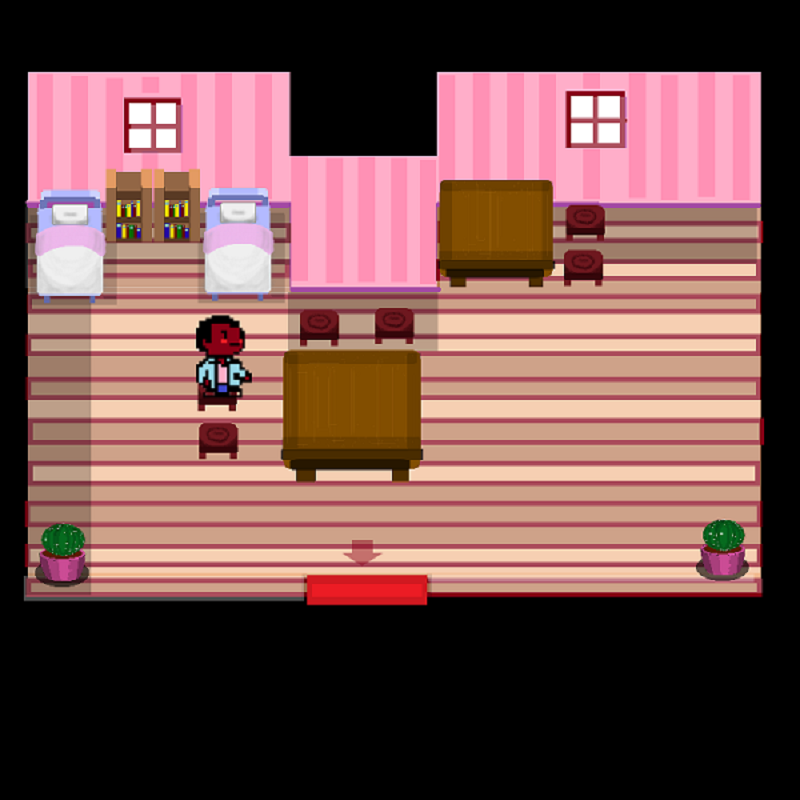
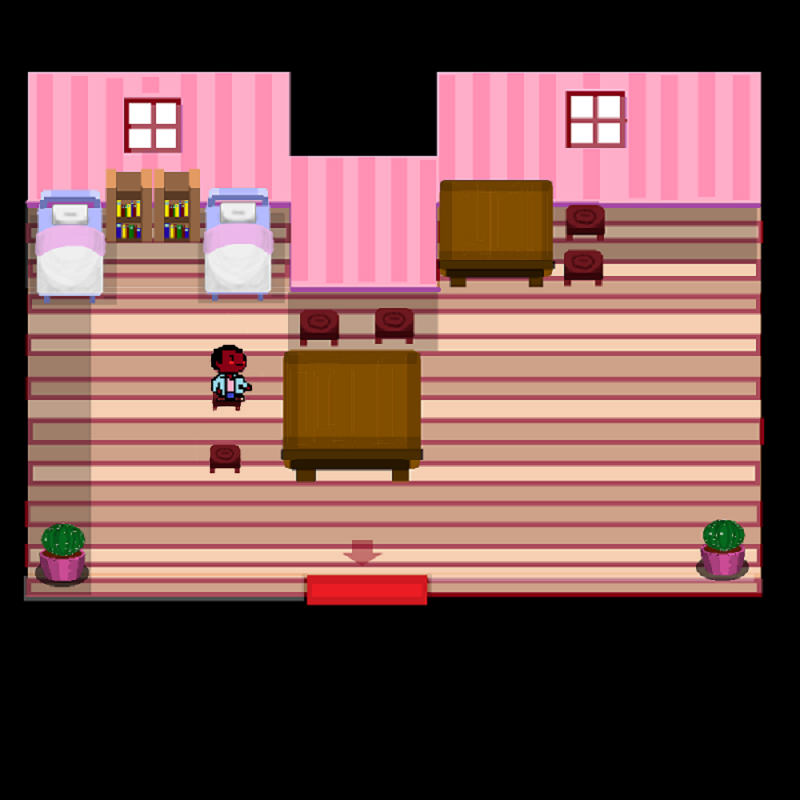
chgmt maison pc 2 & 3

Changed region(s): [[0.2188, 0.375, 0.3125, 0.5938]]

diff --git a/VariablesDeJeu.java b/VariablesDeJeu.java
@@ -18,7 +18,7 @@ public class VariablesDeJeu {//création de l'unique Jframe
 		private int taTurne [][] = { {0,0,0,0,0,0,0,0,0,0,0,0,0,0,0,0,0,0,0,0,0,0,0,0,0},{0,0,0,0,0,0,0,0,0,0,0,0,0,0,0,0,0,0,0,0,0,0,0,0,0},{0,0,0,0,0,0,0,0,0,0,0,0,0,0,0,0,0,0,0,0,0,0,0,0,0},{0,0,0,0,0,0,0,0,0,0,0,0,0,0,0,0,0,0,0,0,0,0,0,0,0},{0,0,0,0,0,0,0,0,0,0,0,0,0,0,0,0,0,0,0,0,0,0,0,0,0},{0,0,0,0,0,0,0,0,0,0,0,0,0,0,0,0,0,0,0,0,0,0,0,0,0},{0,0,0,0,0,0,0,0,0,0,0,0,0,0,0,0,0,0,0,0,0,0,0,0,0},{0,0,0,0,1,1,1,1,1,0,0,0,0,0,0,0,0,0,1,1,1,1,1,1,0},{0,1,1,1,1,1,1,1,1,0,0,0,0,0,1,1,1,1,1,1,1,1,1,1,0},{0,1,1,1,1,1,1,1,1,0,0,0,1,1,1,1,1,1,1,1,1,1,1,1,0},{0,1,1,1,1,1,1,1,1,1,1,1,1,1,1,1,1,1,1,1,1,1,1,1,0},{0,1,1,1,201,201,201,0,0,0,0,0,0,0,0,1,1,1,1,1,1,1,1,1,0},{0,0,0,0,201,2,201,1,1,0,0,0,0,1,1,1,1,1,1,1,1,1,1,1,0},{0,0,0,0,201,2,201,0,0,0,0,0,0,0,0,1,1,1,1,1,1,1,1,1,0},{0,0,0,0,201,201,201,1,0,0,0,0,0,1,1,1,1,1,1,1,1,1,1,1,0},{0,1,1,1,1,1,1,1,1,1,1,1,1,1,1,1,1,1,1,1,1,1,1,1,0},{0,1,1,1,1,1,1,1,1,1,1,1,1,1,1,1,1,1,1,1,1,1,1,1,0},{0,1,1,1,1,1,1,1,1,1,1,1,1,1,1,1,1,1,1,1,1,1,1,1,0},{0,0,0,0,0,0,0,0,0,0,4102,4102,4102,4102,0,0,0,0,0,0,0,0,0,0,0},{0,0,0,0,0,0,0,0,0,0,4102,4102,4102,4102,0,0,0,0,0,0,0,0,0,0,0},{0,0,0,0,0,0,0,0,0,0,0,0,0,0,0,0,0,0,0,0,0,0,0,0,0},{0,0,0,0,0,0,0,0,0,0,0,0,0,0,0,0,0,0,0,0,0,0,0,0,0},{0,0,0,0,0,0,0,0,0,0,0,0,0,0,0,0,0,0,0,0,0,0,0,0,0},{0,0,0,0,0,0,0,0,0,0,0,0,0,0,0,0,0,0,0,0,0,0,0,0,0},{0,0,0,0,0,0,0,0,0,0,0,0,0,0,0,0,0,0,0,0,0,0,0,0,0} };
 		private	int laFeyssine [][] = { {0,0,4105,4105,4105,0,0,0,0,0,0,0,0,0,0,0,0,0,0,0,0,0,0,0,0},{0,0,4105,4105,4105,0,0,0,0,0,0,0,0,0,0,0,0,0,0,0,0,0,0,0,0},{0,0,202,202,202,0,0,0,0,0,0,0,1,1,1,1,0,0,0,0,0,0,0,0,0},{0,0,2,202,202,0,0,0,0,0,0,2,203,1,1,1,0,0,0,0,0,0,0,0,0},{0,0,2,202,202,202,0,0,0,0,0,2,203,1,1,1,0,0,0,0,0,0,0,0,0},{0,0,202,202,202,1,0,0,0,0,0,203,203,1,1,1,0,0,0,0,0,0,0,0,0},{0,0,1,1,1,0,0,0,0,0,0,1,1,0,0,0,0,0,0,0,0,0,0,0,0},{0,0,1,1,1,0,0,0,0,0,0,1,1,0,0,0,0,0,0,0,0,0,0,0,0},{0,0,1,1,1,0,0,0,0,0,0,1,1,0,0,0,0,0,4101,0,0,0,0,0,0},{0,0,1,1,1,1,0,1,1,1,0,1,1,0,0,0,0,0,4101,0,0,0,0,0,0},{0,0,1,1,1,1,1,0,0,0,1,1,1,0,0,0,1,1,1,1,1,1,1,0,0},{0,0,1,1,1,1,0,0,0,0,0,1,1,0,0,0,1,1,1,1,1,1,1,0,0},{0,0,1,1,1,1,0,0,0,0,0,1,1,1,1,1,1,1,1,1,1,1,1,0,0},{0,0,1,1,1,1,0,0,0,0,0,1,1,1,1,1,0,0,0,0,0,0,0,0,0},{0,0,1,1,1,1,0,0,0,0,0,1,1,1,1,1,0,0,0,0,0,0,0,0,0},{0,0,1,1,1,1,0,0,0,0,0,1,1,1,1,1,0,0,0,0,0,0,0,0,0},{0,0,1,1,1,1,0,0,0,0,0,1,1,1,1,1,0,0,0,0,0,0,0,0,0},{0,0,1,1,1,1,0,0,0,0,0,1,1,204,204,0,0,0,0,0,0,0,0,0,0},{0,0,1,1,1,1,0,0,0,0,0,1,1,204,2,0,0,0,4103,0,0,0,0,0,0},{0,0,1,1,1,1,0,0,0,0,0,1,1,204,2,0,0,0,4103,0,0,0,0,0,0},{0,0,1,1,1,1,0,0,0,0,0,1,1,204,204,204,1,1,1,1,1,1,1,0,0},{0,0,1,1,1,1,0,0,0,0,0,1,1,1,1,1,1,1,1,1,1,1,1,0,0},{0,0,1,1,1,1,0,0,0,0,0,0,0,0,0,0,0,0,0,0,0,0,0,0,0},{0,0,0,0,0,0,0,0,0,0,0,0,0,0,0,0,0,0,0,0,0,0,0,0,0},{0,0,0,0,0,0,0,0,0,0,0,0,0,0,0,0,0,0,0,0,0,0,0,0,0}};
 		private int turneVoisin [][] = { {0,0,0,0,0,0,0,0,0,0,0,0,0,0,0,0,0,0,0,0,0,0,0,0,0},{0,0,0,0,0,0,0,0,0,0,0,0,0,0,0,0,0,0,0,0,0,0,0,0,0},{0,0,0,0,0,0,0,0,0,0,0,0,0,0,0,0,0,0,0,0,0,0,0,0,0},{0,0,0,0,0,0,0,0,0,0,0,0,0,0,0,0,0,0,0,0,0,0,0,0,0},{0,0,0,0,0,0,0,0,0,0,0,0,0,0,0,0,0,0,0,0,0,0,0,0,0},{0,0,0,0,0,0,0,0,0,0,0,0,0,0,0,0,0,0,0,0,0,0,0,0,0},{0,0,0,0,0,0,0,0,0,0,0,0,0,0,0,0,0,0,0,0,0,0,0,0,0},{0,0,0,0,0,0,0,0,0,0,0,0,0,0,0,0,0,1,0,0,0,0,0,0,0},{0,1,1,0,0,0,0,0,0,0,0,0,0,0,1,1,1,1,1,1,1,0,0,0,0},{0,1,1,0,0,0,0,1,1,1,1,1,0,0,1,1,1,1,1,1,1,0,0,0,0},{0,1,1,0,0,0,0,1,1,1,1,1,1,1,1,1,1,1,1,1,1,0,0,0,0},{0,1,1,0,0,0,0,1,1,1,1,1,1,1,1,205,205,205,1,1,1,0,0,0,0},{0,1,1,0,0,0,0,1,1,1,1,1,0,0,205,2,205,1,1,1,1,0,0,0,0},{0,1,1,206,206,206,1,1,1,1,1,1,1,1,205,2,205,1,1,1,1,0,0,0,0},{0,1,206,2,2,206,1,1,1,1,1,1,1,1,205,205,205,1,1,1,1,1,1,0,0},{0,1,206,2,2,206,1,1,1,1,1,1,1,1,1,1,1,1,1,1,1,1,1,0,0},{0,1,1,206,206,206,1,1,1,1,1,1,1,1,1,1,1,1,1,1,1,1,1,0,0},{0,1,1,1,1,1,1,1,1,1,1,4104,1,1,1,1,1,1,1,1,1,1,1,0,0},{0,1,1,1,1,1,1,1,1,1,4104,4104,4104,4104,1,1,1,1,1,1,1,1,1,0,0},{0,0,0,0,0,0,0,0,0,4104,4104,4104,4104,4104,0,0,0,0,0,0,0,0,0,0,0},{0,0,0,0,0,0,0,0,0,0,0,0,0,0,0,0,0,0,0,0,0,0,0,0,0},{0,0,0,0,0,0,0,0,0,0,0,0,0,0,0,0,0,0,0,0,0,0,0,0,0},{0,0,0,0,0,0,0,0,0,0,0,0,0,0,0,0,0,0,0,0,0,0,0,0,0},{0,0,0,0,0,0,0,0,0,0,0,0,0,0,0,0,0,0,0,0,0,0,0,0,0},{0,0,0,0,0,0,0,0,0,0,0,0,0,0,0,0,0,0,0,0,0,0,0,0,0}};	
-		private	int travee1 [][] = {{0,0,0,0,0,0,0,0,0,0,0,0,0,0,0,0,0,0,0,0,0,4202,4202,4202,0},{0,0,3,3,307,5,5,5,5,5,5,5,1,1,1,1,1,1,0,0,0,4202,4202,4202,0},{0,0,307,307,307,5,5,5,1,1,5,1,1,1,1,1,1,1,0,0,0,0,1,0,0},{0,0,0,0,0,0,0,0,0,0,1,0,0,0,0,0,0,0,0,0,0,0,1,0,0},{0,0,0,0,0,0,0,0,0,0,1,0,0,0,0,0,0,0,0,0,0,0,1,0,0},{0,0,0,0,0,0,0,0,0,0,1,0,0,0,0,0,0,0,0,0,0,0,5,0,0},{0,0,0,0,0,0,0,0,0,0,1,0,0,0,0,0,0,0,0,0,0,0,5,0,0},{0,0,0,1,1,1,1,1,1,1,5,5,5,5,5,5,5,1,1,5,5,5,5,0,0},{0,0,0,1,1,1,1,1,1,1,5,5,5,5,5,5,5,5,5,5,5,5,5,0,0},{0,0,0,0,0,0,0,0,0,0,0,5,1,1,5,5,5,5,1,0,0,0,1,0,0},{0,0,0,0,0,0,0,0,0,0,0,1,1,1,5,5,5,5,0,0,0,0,1,0,0},{0,0,0,0,0,0,0,0,0,0,0,1,1,1,1,5,0,0,0,0,0,0,0,0,0},{0,0,0,0,0,0,0,0,0,0,0,1,1,1,1,5,0,0,0,0,0,0,0,0,0},{0,0,0,3,308,5,5,5,5,5,1,1,1,1,5,5,0,0,0,0,0,0,0,0,0},{0,0,0,3,308,5,5,5,5,5,1,1,1,1,5,5,0,0,0,0,0,0,0,0,0},{0,0,0,308,308,5,5,5,5,1,0,0,0,1,1,5,5,5,5,1,1,309,3,0,0},{0,0,0,1,1,5,5,5,5,0,0,0,0,1,1,1,1,1,1,1,1,309,309,0,0},{0,0,0,0,0,0,0,0,0,0,0,0,0,0,0,1,1,0,0,0,0,0,0,0,0},{0,0,0,0,0,0,0,0,0,0,0,0,0,0,0,1,1,0,0,0,0,0,0,0,0},{0,0,3,3,310,5,5,5,5,1,1,1,1,1,1,1,1,5,5,5,5,5,5,0,0},{0,0,3,3,310,5,5,5,5,1,1,1,1,1,1,1,1,5,5,5,5,5,5,0,0},{0,0,0,0,0,0,0,0,0,0,0,0,0,0,0,0,0,0,5,5,5,5,5,0,0},{0,0,0,1,1,1,1,1,5,5,5,1,1,1,1,1,5,5,5,5,5,5,5,0,0},{0,0,4201,4201,4201,1,1,1,1,5,1,1,1,1,1,5,5,5,5,5,5,5,5,0,0},{0,0,4201,4201,4201,0,0,0,0,0,0,0,0,0,0,0,0,0,0,0,0,0,0,0,0}};
+		private	int travee1 [][] = {{0,0,0,0,0,0,0,0,0,0,0,0,0,0,0,0,0,0,0,0,0,4202,4202,4202,0},{0,0,3,3,307,5,5,5,5,5,5,5,1,1,1,1,1,1,0,0,0,4202,4202,4202,0},{0,0,307,307,307,5,5,5,1,1,5,1,1,1,1,1,1,1,0,0,0,0,1,0,0},{0,0,0,0,0,0,0,0,0,0,1,0,0,0,0,0,0,0,0,0,0,0,1,0,0},{0,0,0,0,0,0,0,0,0,0,1,0,0,0,0,0,0,0,0,0,0,0,1,0,0},{0,0,0,0,0,0,0,0,0,0,1,0,0,0,0,0,0,0,0,0,0,0,5,0,0},{0,0,0,0,0,0,0,0,0,0,1,0,0,0,0,0,0,0,0,0,0,0,5,0,0},{0,0,0,1,1,1,1,1,1,1,5,5,5,5,5,5,5,1,1,5,5,5,5,0,0},{0,0,0,1,1,1,1,1,1,1,5,5,5,5,5,5,5,5,5,5,5,5,5,0,0},{0,0,0,0,0,0,0,0,0,0,0,5,1,1,5,5,5,5,1,0,0,0,1,0,0},{0,0,0,0,0,0,0,0,0,0,0,1,1,1,5,5,5,5,0,0,0,0,1,0,0},{0,0,0,0,0,0,0,0,0,0,0,1,1,1,1,5,0,0,0,0,0,0,0,0,0},{0,0,0,0,0,0,0,0,0,0,0,1,1,1,1,5,0,0,0,0,0,0,0,0,0},{0,0,0,3,308,5,5,5,5,5,1,1,1,1,5,5,0,0,0,0,0,0,0,0,0},{0,0,0,3,308,5,5,5,5,5,1,1,1,1,5,5,0,0,0,0,0,0,0,0,0},{0,0,0,308,308,5,5,5,5,1,0,0,0,1,1,5,5,5,5,1,1,309,3,0,0},{0,0,0,1,1,5,5,5,5,0,0,0,0,1,1,1,1,1,1,1,1,309,309,0,0},{0,0,0,0,0,0,0,0,0,0,0,0,0,0,0,1,1,0,0,0,0,0,0,0,0},{0,0,0,0,0,0,0,0,0,0,0,0,0,0,0,1,1,0,0,0,0,0,0,0,0},{0,0,0,3,310,5,5,5,5,1,1,1,1,1,1,1,1,5,5,5,5,5,5,0,0},{0,0,0,3,310,5,5,5,5,1,1,1,1,1,1,1,1,5,5,5,5,5,5,0,0},{0,0,0,0,0,0,0,0,0,0,0,0,0,0,0,0,0,0,5,5,5,5,5,0,0},{0,0,0,1,1,1,1,1,5,5,5,1,1,1,1,1,5,5,5,5,5,5,5,0,0},{0,0,4201,4201,4201,1,1,1,1,5,1,1,1,1,1,5,5,5,5,5,5,5,5,0,0},{0,0,4201,4201,4201,0,0,0,0,0,0,0,0,0,0,0,0,0,0,0,0,0,0,0,0}};
 		private	int travee2 [][] = {{0,0,4302,4302,4302,0,0,0,0,0,0,0,0,0,0,0,0,0,0,0,0,0,0,0,0},{0,0,4302,4302,4302,0,0,1,1,1,1,1,1,5,5,5,5,5,5,5,5,1,0,0,0},{0,0,1,1,0,0,0,1,1,1,1,1,1,1,5,1,1,5,5,5,1,1,0,0,0},{0,0,1,0,0,0,0,0,0,0,0,0,0,0,0,1,0,0,0,0,0,0,0,0,0},{0,0,1,0,0,0,0,0,0,0,0,0,0,0,0,1,0,0,0,0,0,0,0,0,0},{0,0,5,0,0,0,0,0,0,0,0,0,0,0,0,1,0,0,0,0,0,0,0,0,0},{0,0,5,0,0,0,0,0,0,0,0,0,0,0,0,1,0,0,0,0,0,0,0,0,0},{0,0,5,5,5,5,1,1,1,5,5,5,5,5,5,1,1,1,311,3,311,1,0,0,0},{0,0,5,5,5,5,5,5,5,5,5,5,5,5,5,1,1,1,311,311,311,1,0,0,0},{0,0,1,0,0,0,1,5,5,5,5,1,1,5,0,0,0,0,0,0,0,0,0,0,0},{0,0,1,0,0,0,0,5,5,5,5,1,1,1,0,0,0,0,0,0,0,0,0,0,0},{0,0,0,0,0,0,0,0,0,5,1,1,1,1,0,0,0,0,0,0,0,0,0,0,0},{0,0,0,0,0,0,0,0,0,5,1,1,1,1,0,0,0,0,0,0,0,0,0,0,0},{0,0,0,0,0,0,0,0,0,5,5,1,1,1,1,5,5,5,5,5,5,5,0,0,0},{0,0,0,0,0,0,0,0,0,5,5,1,1,1,1,5,5,5,5,5,5,5,0,0,0},{0,0,3,312,1,1,5,5,5,5,1,1,0,0,0,1,5,5,5,5,5,1,0,0,0},{0,0,312,312,1,1,1,1,1,1,1,1,0,0,0,0,1,5,5,5,1,1,0,0,0},{0,0,0,0,0,0,0,0,1,1,0,0,0,0,0,0,0,0,0,0,0,0,0,0,0},{0,0,0,0,0,0,0,0,1,1,0,0,0,0,0,0,0,0,0,0,0,0,0,0,0},{0,0,5,5,5,5,5,5,1,1,1,1,1,1,1,1,5,5,5,5,5,1,1,0,0},{0,0,5,5,5,5,5,5,1,1,1,1,1,1,1,1,5,5,5,5,5,1,1,0,0},{0,0,5,5,5,5,5,0,0,0,0,0,0,0,0,0,0,0,0,0,0,0,0,0,0},{0,0,5,5,5,5,5,5,5,1,1,1,1,1,5,5,5,1,1,1,1,1,0,0,0},{0,0,5,5,5,5,5,5,5,5,1,1,1,1,1,5,1,1,1,1,4301,4301,4301,0,0},{0,0,5,5,5,5,5,5,5,5,1,1,1,1,1,5,1,1,1,1,4301,4301,4301,0,0}};
 		private	int pc [][] = {{0,0,0,0,0,0,0,0,0,0,0,0,0,0,0,0,0,0,0,0,0,0,0,0,0},{0,0,0,0,0,0,0,0,0,0,0,0,0,0,0,0,0,0,0,0,0,0,0,0,0},{0,0,0,0,0,0,0,0,0,0,0,0,0,0,1,1,1,1,1,1,1,1,1,4414,4414},{0,0,0,0,0,0,0,0,0,0,0,0,0,0,1,1,1,1,1,1,1,1,1,0,0},{0,0,0,0,0,0,0,0,0,0,0,4408,0,0,1,1,1,0,0,0,0,0,1,0,0},{0,0,0,0,0,0,0,0,0,0,0,4408,0,0,1,1,1,0,0,0,0,0,1,0,0},{0,0,0,0,1,1,1,1,1,1,1,4408,1,1,1,0,0,0,0,0,0,0,1,0,0},{0,0,0,1,1,1,1,1,1,1,1,1,1,1,1,0,0,0,0,0,0,0,1,0,0},{0,0,0,0,1,1,1,1,1,1,1,1,1,1,1,0,0,0,0,4412,0,0,1,0,0},{0,0,0,1,1,1,1,1,1,1,1,1,1,1,1,0,0,0,0,4412,0,0,1,0,0},{0,0,0,0,1,1,0,0,1,1,1,1,1,1,1,1,1,1,1,4412,0,1,1,0,0},{0,0,0,0,1,0,0,0,0,1,1,1,1,1,1,1,1,1,1,1,1,1,1,0,0},{0,0,0,1,1,0,0,0,0,1,1,1,1,1,1,1,1,1,1,1,1,1,1,0,0},{0,0,0,0,1,0,0,0,0,1,1,1,1,1,1,1,1,1,1,1,1,1,1,0,0},{0,0,0,0,1,0,4402,0,0,1,1,1,1,1,1,1,1,1,1,1,1,1,1,0,0},{0,0,0,1,1,4402,4402,4402,0,1,1,1,1,0,0,0,0,1,0,0,0,0,1,0,0},{0,0,0,0,1,1,1,1,1,1,1,1,1,0,0,0,0,1,0,0,0,0,1,0,0},{0,0,0,0,1,1,1,0,1,1,1,1,1,0,0,0,0,1,0,0,0,0,1,0,0},{0,0,0,1,1,1,0,0,0,1,1,1,1,0,4404,0,0,1,0,4406,0,0,1,0,0},{0,0,0,0,1,1,0,0,0,1,1,1,1,0,4404,0,0,1,0,4406,0,0,1,0,0},{0,0,0,0,1,1,1,1,1,1,1,1,1,1,1,1,1,1,1,1,1,1,1,0,0},{0,0,0,0,1,1,1,1,1,1,1,1,1,1,1,1,1,1,1,1,1,1,1,0,0},{0,0,0,0,1,1,1,1,1,1,1,1,1,1,1,1,1,1,1,1,1,1,1,0,0},{0,0,0,0,0,0,0,0,0,4401,4401,4401,4401,0,0,0,0,0,0,0,0,0,0,0,0},{0,0,0,0,0,0,0,0,0,4401,4401,4401,4401,0,0,0,0,0,0,0,0,0,0,0,0}};
 		private	int maison1PC [][] = {{0,0,0,0,0,0,0,0,0,0,0,0,0,0,0,0,0,0,0,0,0,0,0,0,0},{0,0,0,0,0,0,0,0,0,0,0,0,0,0,0,0,0,0,0,0,0,0,0,0,0},{0,0,0,0,0,0,0,0,0,0,0,0,0,0,0,0,0,0,0,0,0,0,0,0,0},{0,0,0,0,0,0,0,0,0,0,0,0,0,0,0,0,0,0,0,0,0,0,0,0,0},{0,0,0,0,0,0,0,0,0,0,0,0,0,0,0,0,0,0,0,0,0,0,0,0,0},{0,0,0,0,0,0,0,0,0,0,0,0,0,0,0,0,0,0,0,0,0,0,0,0,0},{0,0,0,0,0,0,0,0,0,0,0,0,0,0,0,0,0,0,0,0,0,0,0,0,0},{0,0,0,0,0,0,0,1,1,0,0,0,0,0,0,0,0,0,0,0,0,0,0,0,0},{0,0,0,0,0,0,0,1,213,2,2,0,0,0,0,0,0,0,0,0,1,1,1,1,0},{0,1,1,1,1,1,1,1,213,2,2,0,0,0,0,0,0,0,1,1,1,1,1,1,0},{0,0,0,1,1,1,1,1,213,213,213,213,1,1,1,1,1,1,1,1,1,1,1,1,0},{0,1,1,1,1,1,1,1,1,1,1,1,1,1,1,1,1,1,214,214,214,1,1,1,0},{0,1,1,1,1,1,1,1,1,1,1,1,1,1,1,1,1,1,214,2,214,1,1,1,0},{0,0,0,0,1,1,1,1,1,1,1,1,1,1,1,1,1,1,214,2,214,0,0,1,0},{0,0,0,0,1,1,1,1,1,1,1,1,1,1,1,1,1,1,214,2,214,0,0,1,0},{0,0,0,0,1,1,1,1,1,1,1,1,1,1,1,1,1,1,214,214,214,0,0,1,0},{0,0,0,0,1,1,1,1,1,1,1,1,1,1,1,1,1,1,1,1,1,0,0,1,0},{0,1,1,1,1,1,1,1,1,1,1,1,1,1,1,1,1,1,1,1,1,1,1,1,0},{0,0,0,0,0,0,0,0,0,0,4403,4403,4403,0,0,0,0,0,0,0,0,0,0,0,0},{0,0,0,0,0,0,0,0,0,0,4403,4403,4403,0,0,0,0,0,0,0,0,0,0,0,0},{0,0,0,0,0,0,0,0,0,0,0,0,0,0,0,0,0,0,0,0,0,0,0,0,0},{0,0,0,0,0,0,0,0,0,0,0,0,0,0,0,0,0,0,0,0,0,0,0,0,0},{0,0,0,0,0,0,0,0,0,0,0,0,0,0,0,0,0,0,0,0,0,0,0,0,0},{0,0,0,0,0,0,0,0,0,0,0,0,0,0,0,0,0,0,0,0,0,0,0,0,0},{0,0,0,0,0,0,0,0,0,0,0,0,0,0,0,0,0,0,0,0,0,0,0,0,0}};

diff --git a/fenetreCarte.java b/fenetreCarte.java
@@ -108,7 +108,7 @@ public class fenetreCarte implements ActionListener, MouseListener, KeyListener 
 		pPrincipal.add(JLabelCarte);
 
 		// Ajout du Bonhomme à déplacer
-		JLabelPersonnage = new JLabel(new ImageIcon("Images/Personnagepetit.png"));
+		JLabelPersonnage = new JLabel(new ImageIcon("Images/Personnage.png"));
 		JLabelPersonnage.setBounds((xDepart * tailleCellule - 8), (yDepart * tailleCellule - 28), 31, 52);
 		JLabelPersonnage.setLayout(null);
 		JLabelCarte.add(JLabelPersonnage);
